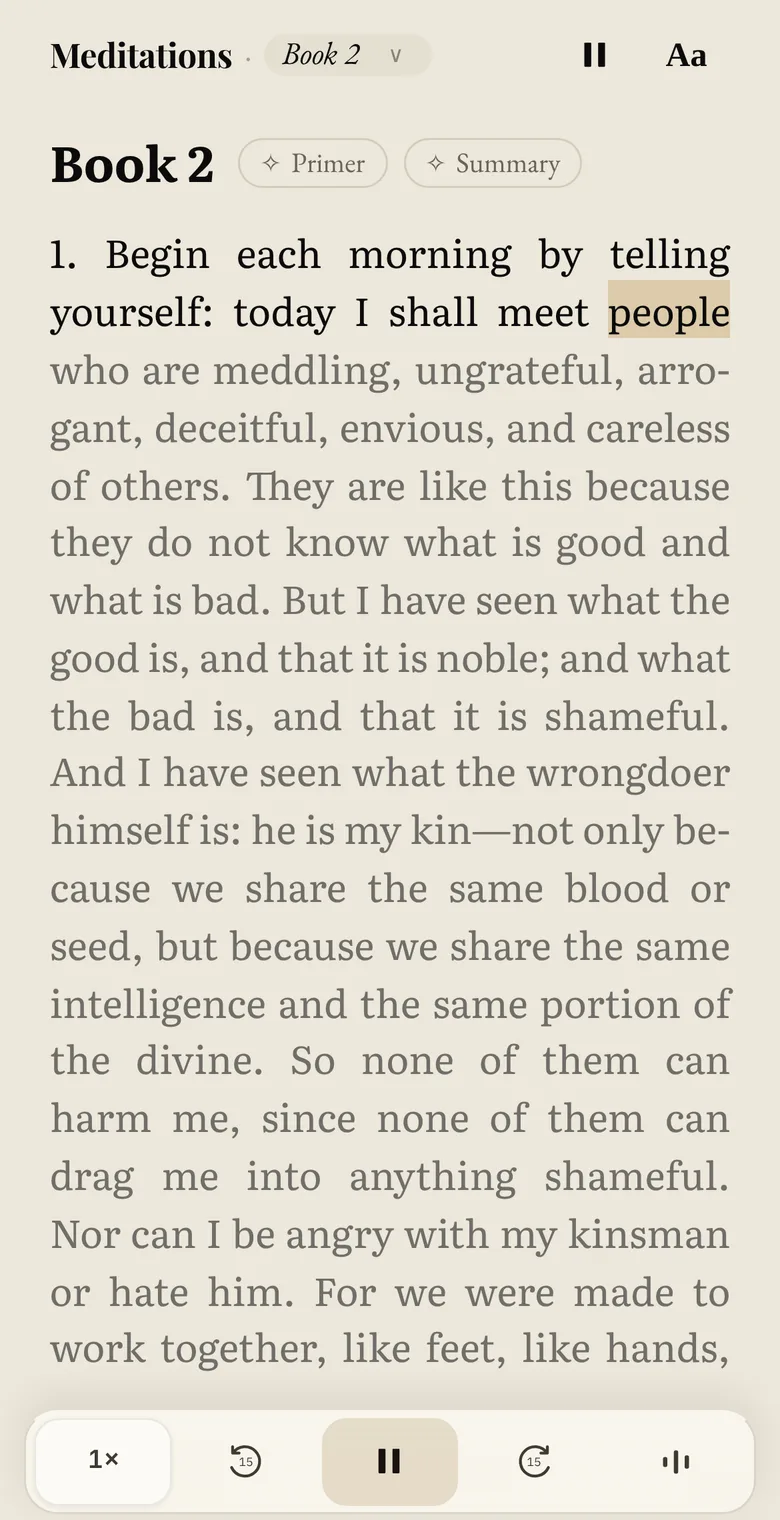
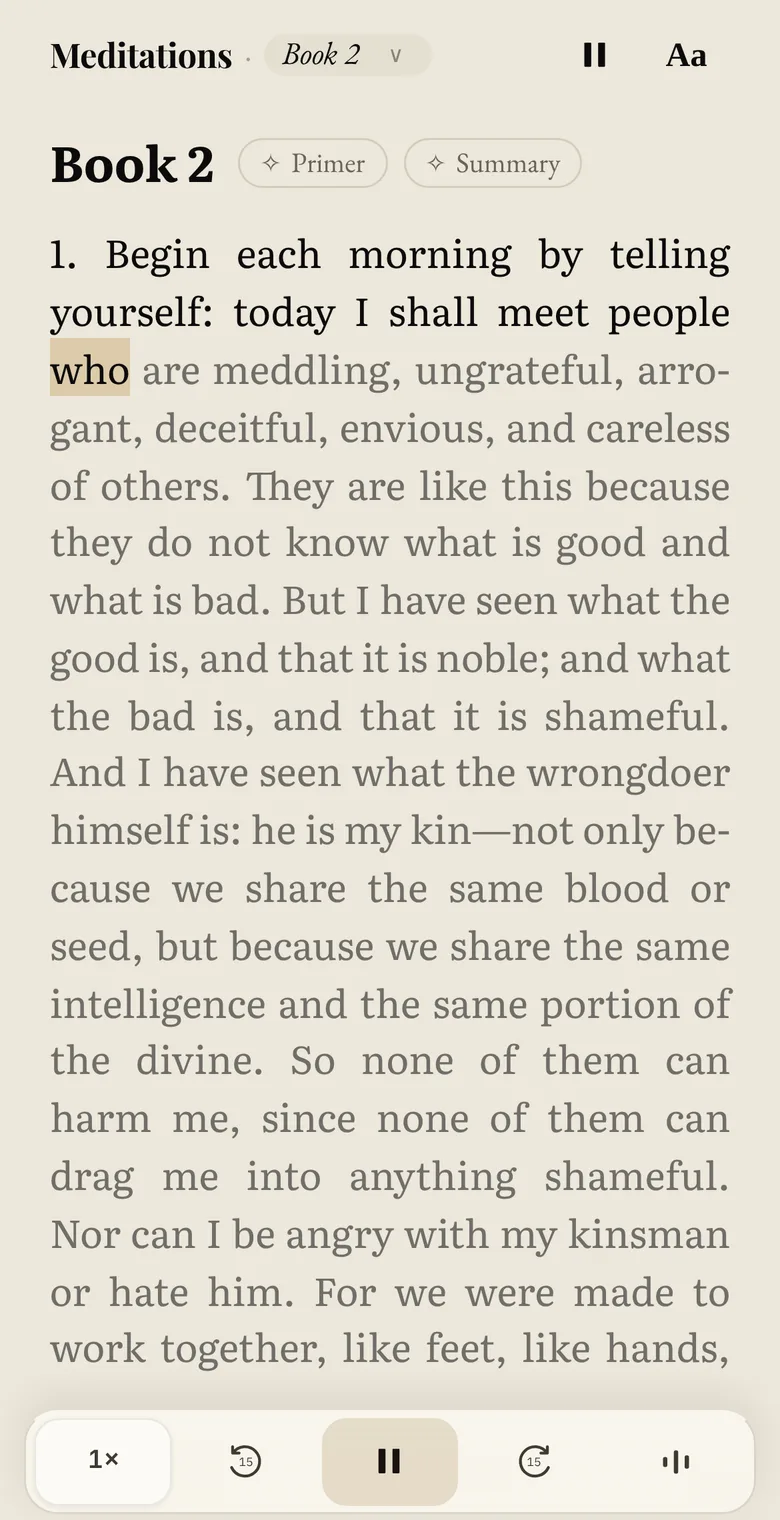
About page: Explain drag, a word a frame, quick and even
The selection now grows one word per frame (29-45, 75 ms each) while the finger glides linearly from word to
word, so the drag reads as one smooth, quick movement (Anders, 19 Nov: it looked laggy). Drag frames keep only
the strip the selection grows in and lie over frame 01, so they add about 0.6 MB per device, not 2 MB. On
desktop the reader's selection menu is held back until the drag ends, as it would be in a real drag.

Claude-Session: https://claude.ai/code/session_01MT1m8mq3NtYNBEbe7tz8nU

Changed region(s): [[0.7692, 0.1855, 0.9538, 0.2474], [0.0615, 0.2164, 0.1846, 0.2783]]

diff --git a/app/public/lab/try/try.js b/app/public/lab/try/try.js
@@ -19,15 +19,17 @@
   // [file, step, milliseconds on screen]. Listen is fourteen frames 280 ms apart, as captured, so the marked word moves
   // word by word (Anders, 19 Nov: it lagged); they cut, not fade, into each other.
   var FRAMES = [
-    // 25-28: the selection growing under the finger, mid-drag (Anders, 19 Nov: highlight it, don't just point).
-    ['01', 0, 1300], ['25', 0, 380], ['26', 0, 380], ['27', 0, 380], ['28', 0, 380], ['02', 0, 1500], ['04', 0, 3600],
+    // 29-45: the selection growing under the finger, a word a frame, quick and even (Anders, 19 Nov).
+    ['01', 0, 1300],
+    ['29', 0, 75], ['30', 0, 75], ['31', 0, 75], ['32', 0, 75], ['33', 0, 75], ['34', 0, 75], ['35', 0, 75], ['36', 0, 75], ['37', 0, 75], ['38', 0, 75], ['39', 0, 75], ['40', 0, 75], ['41', 0, 75], ['42', 0, 75], ['43', 0, 75], ['44', 0, 75], ['45', 0, 75],
+    ['02', 0, 1500], ['04', 0, 3600],
     ['08', 1, 3200],
     ['11', 2, 280], ['12', 2, 280], ['13', 2, 280], ['14', 2, 280], ['15', 2, 280], ['16', 2, 280], ['17', 2, 280],
     ['18', 2, 280], ['19', 2, 280], ['20', 2, 280], ['21', 2, 280], ['22', 2, 280], ['23', 2, 280], ['24', 2, 900],
     ['10', 3, 4200],
   ]
   // Bump when the frames are re-captured, so browsers fetch the new ones.
-  var FRAMES_V = '20261119h'
+  var FRAMES_V = '20261119j'
   var reduce = window.matchMedia('(prefers-reduced-motion: reduce)').matches
 
   var $ = function (selector, root) { return (root || document).querySelector(selector) }
@@ -39,8 +41,11 @@
   // The first frame is in the page; the rest load after it, one picture each (phone and desktop crops).
   var first = $('picture', demo)
   var pictures = [first]
+  // Drag frames hold only the strip the selection grows in, laid over the first frame (kept small to load).
+  var isCrop = function (file) { var n = Number(file); return n >= 29 && n <= 45 }
   FRAMES.slice(1).forEach(function (frame) {
     var picture = document.createElement('picture')
+    if (isCrop(frame[0])) picture.className = 'is-crop'
     picture.innerHTML = '<source media="(max-width: 899px)" srcset="/lab/try/frames/phone-' + frame[0] + '.webp?v=' + FRAMES_V + '">' +
       '<img src="/lab/try/frames/desktop-' + frame[0] + '.webp?v=' + FRAMES_V + '" alt="" width="2112" height="1222" loading="lazy" decoding="async">'
     demo.insertBefore(picture, $('.try-demo-open', demo))
@@ -51,10 +56,12 @@
 
   // ---- The visitor's pointer (Anders, 19 Nov: show the click before each change). Where it goes was recorded when the
   // frames were captured (scripts/capture-try-frames.cjs writes frames/*-pointer.json), as fractions of the frame. ----
-  var POINTER = {"desktop": {"selectFrom": [0.1141, 0.3289], "selectTo": [0.5293, 0.367], "drag25": [0.32, 0.3289], "drag26": [0.4481, 0.3289], "drag27": [0.5988, 0.3479], "drag28": [0.3204, 0.367], "explain": [0.5867, 0.4419], "modern": [0.644, 0.0458], "play": [0.91, 0.0458], "summary": [0.7713, 0.2875]}, "phone": {"selectFrom": [0.131, 0.1657], "selectTo": [0.6907, 0.2793], "drag25": [0.8571, 0.1657], "drag26": [0.4125, 0.2036], "drag27": [0.9314, 0.2225], "drag28": [0.8333, 0.2414], "explain": [0.3141, 0.3458], "modern": [0.88, 0.0361], "play": [0.7621, 0.0361], "summary": [0.6317, 0.1074]}}
+  var POINTER = {"desktop": {"selectFrom": [0.1141, 0.3289], "selectTo": [0.5293, 0.367], "drag29": [0.1794, 0.3289], "drag30": [0.2472, 0.3289], "drag31": [0.2695, 0.3289], "drag32": [0.32, 0.3289], "drag33": [0.3396, 0.3289], "drag34": [0.3976, 0.3289], "drag35": [0.4086, 0.3289], "drag36": [0.4481, 0.3289], "drag37": [0.4885, 0.3289], "drag38": [0.5266, 0.3289], "drag39": [0.555, 0.3289], "drag40": [0.5988, 0.3479], "drag41": [0.1618, 0.367], "drag42": [0.2481, 0.367], "drag43": [0.3204, 0.367], "drag44": [0.3932, 0.367], "drag45": [0.4589, 0.367], "explain": [0.5867, 0.4419], "modern": [0.644, 0.0458], "play": [0.91, 0.0458], "summary": [0.7713, 0.2875]}, "phone": {"selectFrom": [0.131, 0.1657], "selectTo": [0.6907, 0.2793], "drag29": [0.3603, 0.1657], "drag30": [0.5958, 0.1657], "drag31": [0.6793, 0.1657], "drag32": [0.8571, 0.1657], "drag33": [0.9314, 0.1657], "drag34": [0.2355, 0.2036], "drag35": [0.2765, 0.2036], "drag36": [0.4125, 0.2036], "drag37": [0.5519, 0.2036], "drag38": [0.6831, 0.2036], "drag39": [0.7821, 0.2036], "drag40": [0.9314, 0.2225], "drag41": [0.2903, 0.2414], "drag42": [0.5852, 0.2414], "drag43": [0.8333, 0.2414], "drag44": [0.9314, 0.2604], "drag45": [0.4512, 0.2793], "explain": [0.3141, 0.3458], "modern": [0.88, 0.0361], "play": [0.7621, 0.0361], "summary": [0.6317, 0.1074]}}
   // What happens on a frame before the next one: a drag that selects, or a press on a button.
   var ACTIONS = {
-    '01': { drag: ['selectFrom', 'drag25'] }, '25': { move: 'drag26' }, '26': { move: 'drag27' }, '27': { move: 'drag28' }, '28': { move: 'selectTo', lift: true },
+    '01': { drag: ['selectFrom', 'drag29'] },
+    '29': { move: 'drag30' }, '30': { move: 'drag31' }, '31': { move: 'drag32' }, '32': { move: 'drag33' }, '33': { move: 'drag34' }, '34': { move: 'drag35' }, '35': { move: 'drag36' }, '36': { move: 'drag37' }, '37': { move: 'drag38' }, '38': { move: 'drag39' }, '39': { move: 'drag40' }, '40': { move: 'drag41' }, '41': { move: 'drag42' }, '42': { move: 'drag43' }, '43': { move: 'drag44' }, '44': { move: 'drag45' },
+    '45': { move: 'selectTo', lift: true },
     '02': { press: 'explain' }, '04': { press: 'modern' }, '08': { press: 'play' }, '24': { press: 'summary' } }
   var phoneQuery = window.matchMedia('(max-width: 899px)')
   var layer = document.createElement('div')
@@ -90,8 +97,9 @@
   function later(fn, ms) { actionTimers.push(setTimeout(fn, ms)) }
   // keep: the next frame carries the same drag on, so the finger stays down where it is.
   function clearActions(keep) { actionTimers.forEach(clearTimeout); actionTimers = []; if (!keep) pointer.className = 'try-pointer' }
-  function place(at, glide) {
-    pointer.style.transition = glide ? 'left ' + glide + 'ms cubic-bezier(.4, 0, .2, 1), top ' + glide + 'ms cubic-bezier(.4, 0, .2, 1), opacity .25s' : 'opacity .25s'
+  function place(at, glide, ease) {
+    ease = ease || 'cubic-bezier(.4, 0, .2, 1)'
+    pointer.style.transition = glide ? 'left ' + glide + 'ms ' + ease + ', top ' + glide + 'ms ' + ease + ', opacity .25s' : 'opacity .25s'
     pointer.style.left = (at[0] * 100) + '%'
     pointer.style.top = (at[1] * 100) + '%'
   }
@@ -107,7 +115,7 @@
       var total = Math.max(duration, 1800)
       later(function () { place(from, 0); pointer.className = 'try-pointer is-on' }, 400)
       later(function () { pointer.className = 'try-pointer is-on is-down' }, 800)
-      later(function () { place(to, total - 900) }, 900)
+      later(function () { place(to, total - 900, 'ease-in') }, 900)
       return total
     }
     if (action.move) {
@@ -115,7 +123,8 @@
       var target = marks[action.move]
       if (!target) return duration
       pointer.className = 'try-pointer is-on is-down'
-      place(target, duration)
+      // Linear, so the finger's word-to-word glides join into one even movement.
+      place(target, duration, 'linear')
       if (action.lift) later(function () { pointer.className = 'try-pointer is-on' }, duration + 150)
       return duration
     }
@@ -157,12 +166,13 @@
     var rise = !reduce && shown >= 0 && shown !== index && RISE[index]
     var under = shown >= 0 && shown !== index ? shown : -1
     // Cut, not fade: word by word in Listen, and the selection growing under the finger.
-    var drag = function (i) { return /^2[5-8]$/.test(FRAMES[i][0]) }
+    var drag = function (i) { var n = Number(FRAMES[i][0]); return n >= 29 && n <= 45 }
     demo.classList.toggle('is-cut', shown >= 0 && ((FRAMES[shown][1] === 2 && FRAMES[index][1] === 2) || drag(shown) || drag(index)))
     clearTimeout(underTimer)
     pictures.forEach(function (picture, i) {
       picture.classList.remove('is-wave', 'is-rise', 'is-under')
       picture.classList.toggle('is-on', i === index)
+      picture.classList.toggle('is-base', i === 0 && isCrop(FRAMES[index][0]))
     })
     if (under >= 0) {
       pictures[under].classList.add('is-under')

diff --git a/app/public/about.html b/app/public/about.html
@@ -22,9 +22,9 @@
 <link rel="icon" href="/favicon.ico">
 <link rel="stylesheet" href="/fonts/tinct-fonts.css">
 <link rel="stylesheet" href="/lab/tinct-ui.css?v=20261009rel10">
-<link rel="stylesheet" href="/lab/try/try.css?v=20261119hilm4">
+<link rel="stylesheet" href="/lab/try/try.css?v=20261119jilm4">
 <script type="module" src="/lab/internal-traffic.js"></script>
-<script src="/lab/try/try.js?v=20261119hilm4" defer></script>
+<script src="/lab/try/try.js?v=20261119jilm4" defer></script>
 </head>
 <body class="try">
 <div class="try-backdrop" aria-hidden="true"></div>
@@ -64,7 +64,7 @@
     <div class="try-show">
       <!-- Frames of the real reader (scripts/capture-try-frames.cjs), Meditations Book 2. The first is in the page; try.js adds the rest. -->
       <a class="try-demo" href="/reader?book=meditations&amp;chapter=2" data-try-demo aria-label="Meditations, Book 2: open it in the reader">
-        <picture class="is-on"><source media="(max-width: 899px)" srcset="/lab/try/frames/phone-01.webp?v=20261119h"><img src="/lab/try/frames/desktop-01.webp?v=20261119h" alt="" width="2112" height="1222" fetchpriority="high"></picture>
+        <picture class="is-on"><source media="(max-width: 899px)" srcset="/lab/try/frames/phone-01.webp?v=20261119j"><img src="/lab/try/frames/desktop-01.webp?v=20261119j" alt="" width="2112" height="1222" fetchpriority="high"></picture>
         <span class="try-demo-open" aria-hidden="true">Open it in the reader</span>
       </a>
       <a class="try-phone-more" href="#pricing">Pricing · Questions <span aria-hidden="true">↓</span></a>

diff --git a/app/public/lab/try/try.css b/app/public/lab/try/try.css
@@ -398,3 +398,8 @@ html[data-eink="true"] .try-backdrop { display: none; }
 }
 @media (max-width: 374px) { .try-caption { font-size: 20px; } }
 @media (max-width: 899px) and (prefers-reduced-motion: reduce) { .try-caption span { transition: none; } }
+
+/* Drag frames: only the top strip, over the first frame, which stays in place beneath them. */
+.try-demo picture.is-base img { opacity: 1; transition: none; }
+.try-demo picture.is-crop { bottom: auto; height: auto; }
+.try-demo picture.is-crop img { bottom: auto; height: auto; object-fit: initial; }
